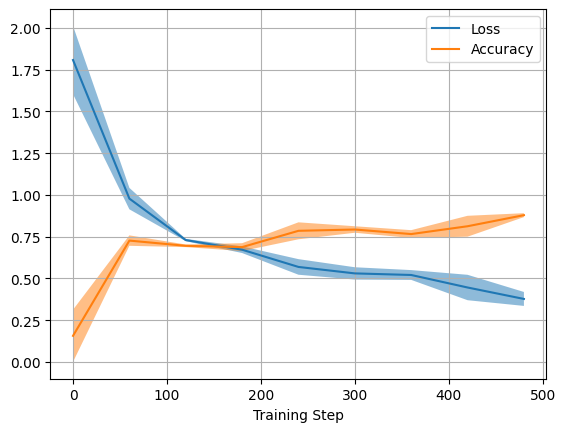
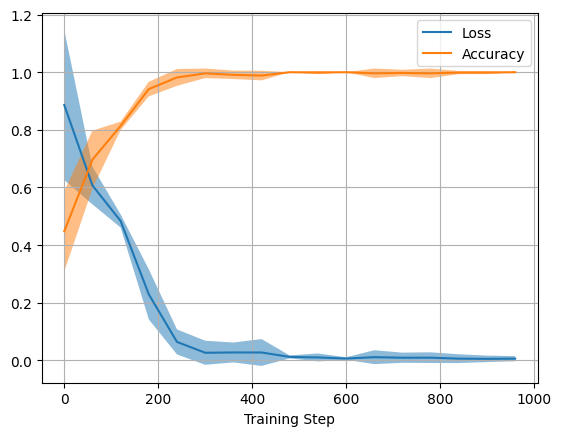
assigment 2 part 2 init

diff --git a/assignment_2/2_recurrentnns_gnns/code/Part 2/train.py b/assignment_2/2_recurrentnns_gnns/code/Part 2/train.py
@@ -40,27 +40,45 @@ def train(config):
     device = torch.device(config.device)
 
     # Initialize the dataset and data loader (note the +1)
-    dataset = TextDataset(...)  # fixme
+    dataset = TextDataset(config.txt_file, config.seq_length)
     data_loader = DataLoader(dataset, config.batch_size)
 
     # Initialize the model that we are going to use
-    model = TextGenerationModel(...)  # FIXME
+    model = TextGenerationModel(config.batch_size, config.seq_length, config.vocabulary_size, config.lstm_num_hidden, config.lstm_num_layers, config.device)
 
     # Setup the loss and optimizer
-    criterion = None  # FIXME
-    optimizer = None  # FIXME
+    criterion = torch.nn.CrossEntropyLoss()
+    optimizer = optim.Adam(model.parameters(), lr=config.learning_rate)
 
     for step, (batch_inputs, batch_targets) in enumerate(data_loader):
 
         # Only for time measurement of step through network
         t1 = time.time()
 
-        #######################################################
-        # Add more code here ...
-        #######################################################
+        # Move to GPU
+        batch_inputs = batch_inputs.to(device)     # [batch_size, seq_length,1]
+        batch_targets = batch_targets.to(device)   # [batch_size]
+        # Reset for next iteration
+        model.zero_grad()
 
-        loss = np.inf   # fixme
-        accuracy = 0.0  # fixme
+        # Forward pass
+        log_probs = model(batch_inputs)
+        # Compute the loss, gradients and update network parameters
+        loss = criterion(log_probs, batch_targets)
+        loss.backward()
+
+        #######################################################################
+        # Check for yourself: what happens here and why?
+        #######################################################################
+        torch.nn.utils.clip_grad_norm_(model.parameters(),
+                                       max_norm=config.max_norm)
+        #######################################################################
+
+        optimizer.step()
+
+        predictions = torch.argmax(log_probs, dim=1)
+        correct = (predictions == batch_targets).sum().item()
+        accuracy = correct / log_probs.size(0)
 
         # Just for time measurement
         t2 = time.time()
@@ -142,3 +160,5 @@ if __name__ == "__main__":
 
     # Train the model
     train(config)
+
+#python train.py --txt_file ./assets/book_EN_democracy_in_the_US.txt --train_steps 1000
